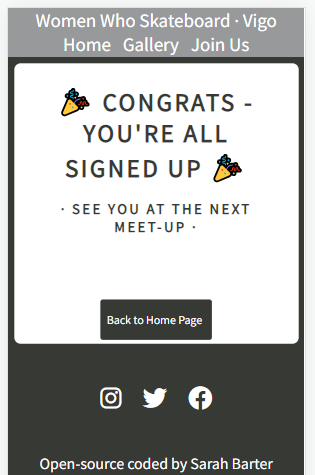
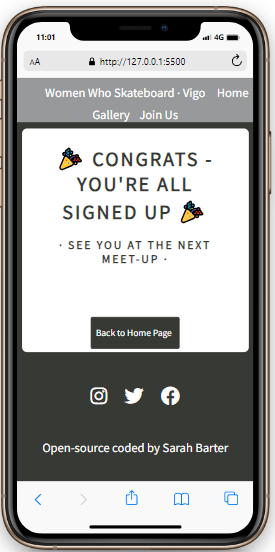
update README

diff --git a/assets/css/styles.css b/assets/css/styles.css
@@ -75,7 +75,7 @@ nav {
 
 .flex-item {
   flex-grow: 4;
-  margin: 10px 1%;
+  margin: 10px 10%;
 }
 
 .menu {
@@ -255,18 +255,18 @@ input {
   }
 
   .container {
-    margin: 70px 2% 10px;
+    margin: 80px 2% 10px;
     padding: 5px;
   }
 
   .flex-item {
     text-align: center;
-    margin: 0;
-    font-size: 24px;
+    margin-left: 10%;
+    font-size: smaller;
   }
 
   .menu {
-    font-size: 24px;
+    font-size: smaller;
   }
 
   .main-flex-container {
